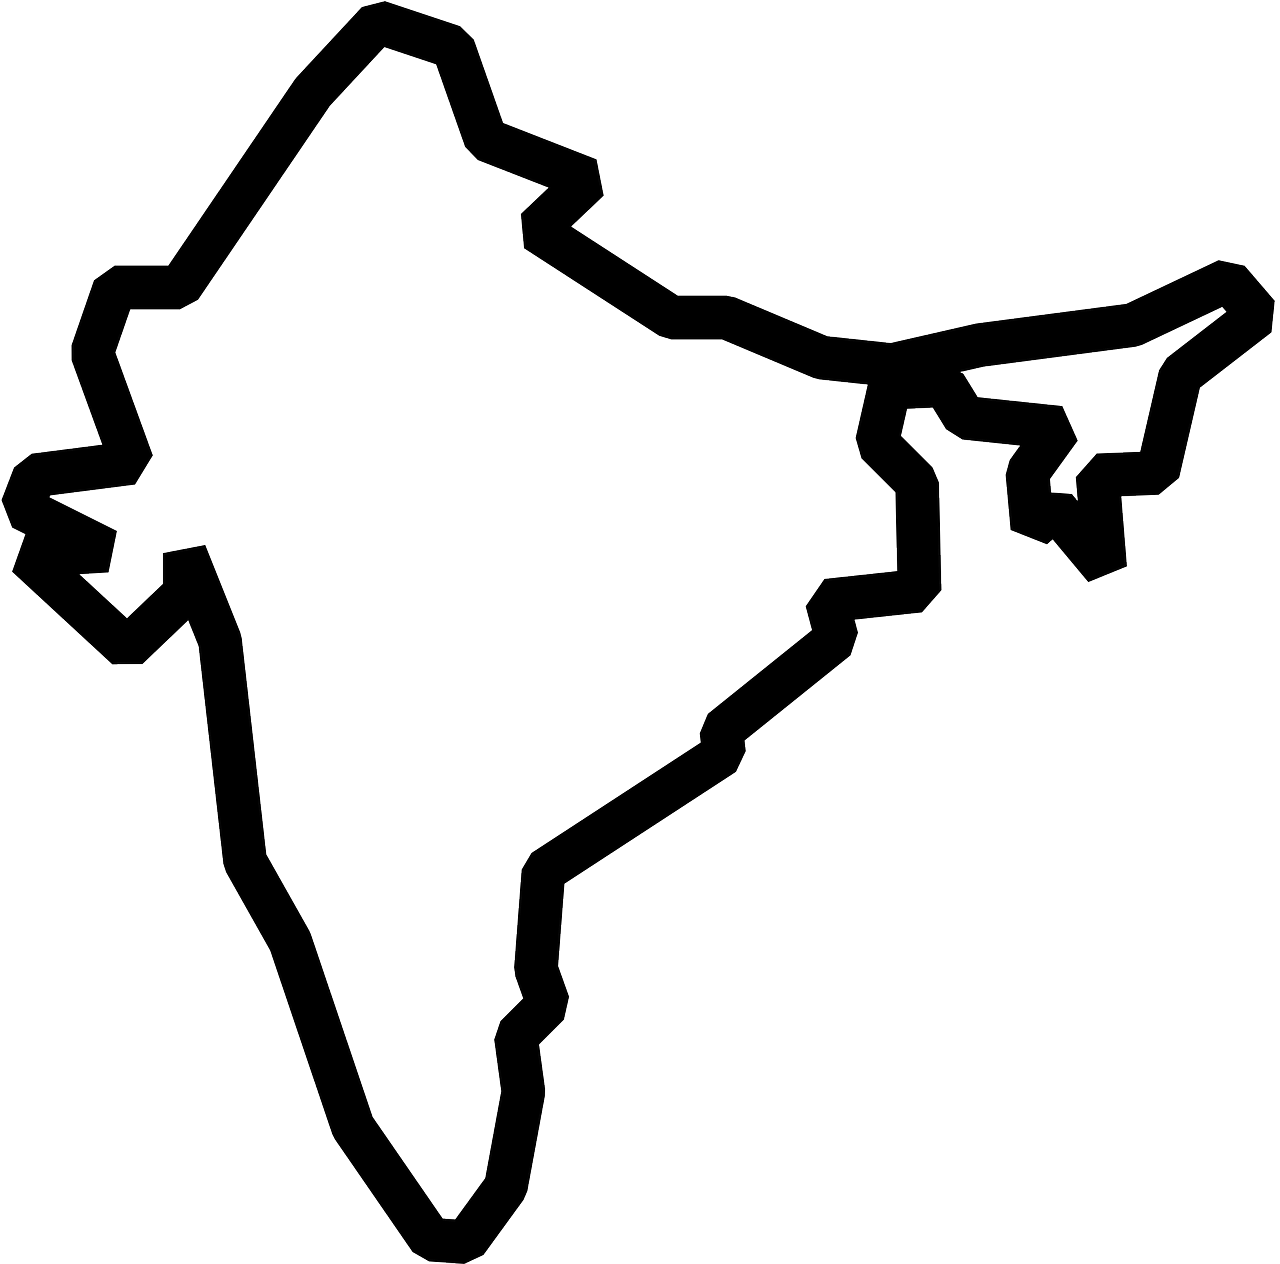
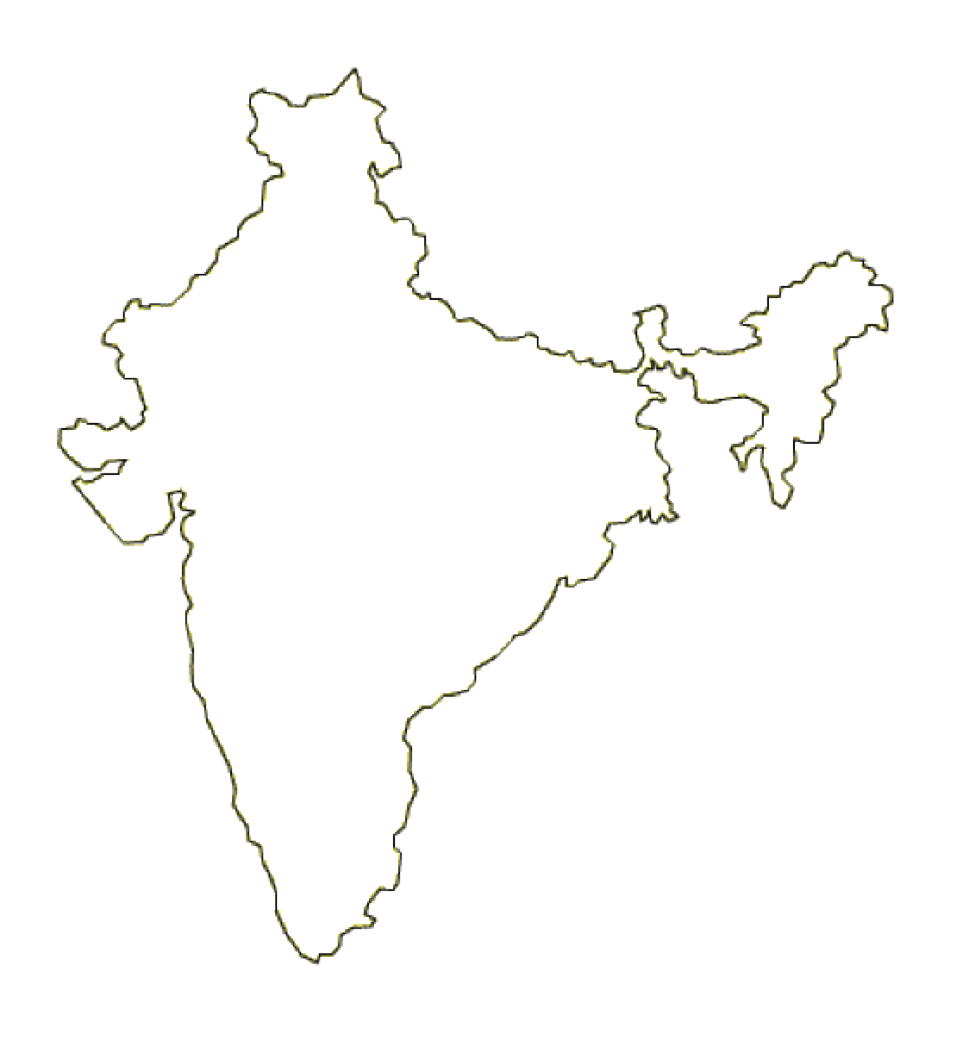
make world and about

diff --git a/worldwork.html b/worldwork.html
@@ -6,7 +6,7 @@
     <meta name="viewport" content="width=device-width, initial-scale=1">
     <link rel="icon" href="img/i.png" type="image/x-icon">
     <link href="http://fonts.googleapis.com/css?family=Source+Sans+Pro:400,700|Montserrat" rel="stylesheet" type="text/css">
-    <link rel="stylesheet" type="text/css" href="css/mainpage.css">
+    <link rel="stylesheet" type="text/css" href="css/worldwork.css">
     <link rel="stylesheet" type="text/css" href="css/topnav.css">
   </head>
   <div class="topnav">
@@ -17,14 +17,18 @@
   <a href="fun_stuff.html">Fun Stuff</a>
 </div>
   <body>
-<h1>Where in the world...</h1>
-<h2>have I lived/worked/studied</h2>
+
+
+<h1 class="name">Where in the world...</h1>
+<img src="img/blank_map.png" width=100%/>
+
+<h1>have I lived/worked/studied</h1>
 
 <h2>North America</h2>
 <h3>United States</h3>
 <h4>This is home!</h4>
 
-<h2>Europe</h2>
+<h2> Europe</h2>
 <img src="img/germany.png" width="100"/>
 <h3>Germany</h3>
 <p>Where: Berlin, Germany</p>
@@ -41,26 +45,29 @@
 <p>When: August 2015 - December 2015</p>
 <p>Studying: Exchange student at the <a href="https://www.upo.es/portal/impe/web/portada?lang=en" target="_blank">Universidad Pablo de Olavide</a>.</p>
 
+<img src="img/suisse.png" width="200"/>
 <h3>Switzerland</h3>
 <p>Where: Geneva, Switzerland</p>
 <p>When: August 2013</p>
 
 <h2>Asia</h2>
-<img src="img/bharot.png" width="180"/>
+<img src="img/india.png" width="200"/>
 <h3>India</h3>
 <p>Where: Kolkata, India</p>
 <p>When: June 2017 - August 2017</p>
 <p>Studying: U.S. Department of State's <a href="https://www.clscholarship.org/ " target="_blank">Critical Lanugage Scholarship</a> at the <a href="https://www.indiastudies.org/" target="_blank">American Institute of Indian Studies</a>.</p>
 
+<img src="img/singapore.png" width="200"/>
 <h3>Singapore</h3>
 <p>Where: Kolkata, India</p>
 <p>When: June 2017 - August 2017</p>
 <p>Working/Studying: Researcher and exchange student at the <a href="http://nus.edu.sg/" target="_blank">National University of Singapore</a> and mental health specialist at the <a href="https://www.home.org.sg/" target="_blank">Humanitarian Organization for Migration Economics</a>.</p>
 
+<img src="img/japan.png" width="200"/>
 <h3>Japan</h3>
 <p>Where: Tokyo, Sendai, and Northern Japan</p>
 <p>When: March 2015</p>
-<p>Working: Researching after effects of the Great East Japan Earthquake and attending the<a href="https://www.un.org/sustainabledevelopment/un-world-conference-on-disaster-risk-reduction/page/6/" target="_blank">UN World Conference on Disaster Risk Reduction</a>.</p>
+<p>Working: Researching after effects of the Great East Japan Earthquake and attending the <a href="https://www.un.org/sustainabledevelopment/un-world-conference-on-disaster-risk-reduction/page/6/" target="_blank">UN World Conference on Disaster Risk Reduction</a>.</p>
 
 <h2>Africa</h2>
 

diff --git a/index.html b/index.html
@@ -8,15 +8,15 @@
     
     <link rel="icon" href="img/i.png" type="image/x-icon">
     <link href="http://fonts.googleapis.com/css?family=Source+Sans+Pro:400,700|Montserrat" rel="stylesheet" type="text/css">
-    <link href='http://fonts.googleapis.com/css?family=Source+Sans+Pro:300,400,700' rel='stylesheet' type='text/css'>
-
-    <link rel="stylesheet" type="text/css" href="css/clip.css"> <!-- clip effect -->
-    <script src="js/modernizr.js"></script> <!-- Modernizr -->
 
     <link rel="stylesheet" type="text/css" href="css/mainpage.css">
     <link rel="stylesheet" type="text/css" href="css/topnav.css">
-  </head>
 
+  <!--link rel="stylesheet" href="css/reset.css"--> <!-- CSS reset -->
+  <link rel="stylesheet" href="css/clip.css"> <!-- Resource style -->
+  <script src="js/modernizr.js"></script> <!-- Modernizr -->
+
+  </head>
   <div class="topnav">
   <a href="worldwork.html">World</a>
   <a href="research.html">Research</a>
@@ -31,23 +31,18 @@
       <p></p>
       <img src="img/laughing.jpg" width="320" border="6" />
       <section class="cd-intro">
-   <p class="cd-headline clip is-full-width">
-      <span>I'm a public policy</span>
-      <span class="cd-words-wrapper">
-         <b class="is-visible">researcher</b>
-         <b>project manager</b>
-         <b>student</b>
-      </span>
-      <span>hoping to bridge the technology-policy gap.</span>
-   </p>
+       <h1 class="cd-headline letters type">
+          <span>I'm a public policy</span>
+          <span class="cd-words-wrapper">
+             <b class="is-visible">researcher</b>
+             <b>project manager</b>
+             <b>student</b>
+          </span>
+          <span>hoping to bridge the technology-policy gap.</span>
+       </h1>
       </section> <!-- cd-intro -->
-
-
     </div> <!-- /.main-container-->
-<div>
-  
-  
-</div>
+
     <footer>
       <ul class="meta inline-list">
         <li><a href="https://www.linkedin.com/in/irene-solaiman/" target="_blank">linkedin</a></li>
@@ -55,8 +50,8 @@
         <li><a href="http://www.github.com/irenesolaiman" target="_blank">github</a></li>
       </ul>
     </footer>
-    <script src="js/clip.js"></script> <!-- clip effect -->
-    <script src="js/main.js"></script> <!-- Resource jQuery -->
+<script src="js/jquery-2.1.1.js"></script>
+<script src="js/clip.js"></script> <!-- Resource jQuery -->
 </body>
 
 </html>

diff --git a/css/worldwork.css b/css/worldwork.css
@@ -1,10 +1,13 @@
 
-body {text-align: center; font-family: Montserrat, Helvetica Neue, sans-serif; margin: 0 auto; line-height: 2em; padding: 10px; box-sizing: border-box; color: #333; overflow: auto;
+body {text-align: left; font-family: Montserrat, Helvetica Neue, sans-serif; margin: 0 auto; line-height: 2em; padding: 10px; box-sizing: border-box; color: #333; overflow: auto;
   background: white;
   background-image: linear-gradient(rgba(240, 240, 240, .7) .1em, transparent .1em), linear-gradient(90deg, rgba(240, 240, 240, .7) .1em, transparent .1em);
   background-size: 3em 3em;
 }
 
+h2 {border:solid;
+border-color: black; padding: 5px 0 0 0; display:inline; text-transform: uppercase;
+}
 body, html {height: 100%;position: relative;}
 
 a {text-decoration: none; color: #333; border-bottom: 3px solid #004d80;}
@@ -32,7 +35,9 @@ body {
 }
 hr {border-bottom: 3px solid #004d80;}
 
-.name {font-family: Montserrat; font-size: 45px; text-transform: uppercase; font-weight: 900; padding: 12px; border: 4px solid black; color: black; display: inline-block; position: absolute; margin-bottom: 60px; top: 60px; left: 90px;}
+.name {font-family: Montserrat; font-size: 45px; text-transform: uppercase; font-weight: 900; padding: 12px; border: 4px solid black; color: black; display: inline-block; position: absolute; margin-bottom: 60px; top: 60px; left: 90px; background: white;
+  background-image: linear-gradient(rgba(240, 240, 240, .7) .1em, transparent .1em), linear-gradient(90deg, rgba(240, 240, 240, .7) .1em, transparent .1em);
+  background-size: 3em 3em;}
 
 .meta {text-transform: uppercase; font-family: Arial, Courier New, Source Sans Pro, sans-serif; font-size: 10px; letter-spacing: .15em;}
 .meta a:hover {color: #333;}

diff --git a/about.html b/about.html
@@ -8,7 +8,7 @@
     <link rel="icon" href="img/i.png" type="image/x-icon">
     <link href="http://fonts.googleapis.com/css?family=Source+Sans+Pro:400,700|Montserrat" rel="stylesheet" type="text/css">
     <script src="js/clip.js"></script> <!-- clip effect -->
-    <link rel="stylesheet" type="text/css" href="css/mainpage.css">
+    <link rel="stylesheet" type="text/css" href="css/about.css">
     <link rel="stylesheet" type="text/css" href="css/topnav.css">
   </head>
   <div class="topnav">
@@ -20,13 +20,18 @@
 </div>
   <body>
     <div class=”main-container”>
-      <h1>Coming soon!</h1>
+      <h1 class="name">About me</h1>
       <p></p>
-      
+      <img src="img/conference.jpg" width="400" border="6" />
 
-    
+      <h2></h2>
+      <h3>Harvard University, John F. Kennedy School of Government</h3>
+      <h4><a href="https://www.hks.harvard.edu/educational-programs/masters-programs/master-public-policy" target="_blank">Master in Public Policy</a>, 2019</h4>
 
-
+      <h3>University of Maryland, College Park</h3>
+      <h4><a href="https://www.ivsp.umd.edu/isolaiman-profile.html" target="_blank">B.A. International Relations</a>, 2017</h4>
+      <p><a href="https://www.bannekerkey.umd.edu/" target="_blank">Banneker/Key Scholar</a>  (Full four year merit scholarship)</p>
+      <p>Self-created degree curriculum with the <a href="https://www.ivsp.umd.edu/" target="_blank">Individual Studies Program</a></p>
     </div> <!-- /.main-container-->
 
 

diff --git a/css/about.css b/css/about.css
@@ -1,5 +1,5 @@
 
-body {text-align: center; font-family: Montserrat, Helvetica Neue, sans-serif; margin: 0 auto; line-height: 2em; padding: 10px; box-sizing: border-box; color: #333; overflow: auto;
+body {text-align: left; font-family: Montserrat, Helvetica Neue, sans-serif; margin: 0 auto; line-height: 2em; padding: 10px; box-sizing: border-box; color: #333; overflow: auto;
   background: white;
   background-image: linear-gradient(rgba(240, 240, 240, .7) .1em, transparent .1em), linear-gradient(90deg, rgba(240, 240, 240, .7) .1em, transparent .1em);
   background-size: 3em 3em;

diff --git a/fun_stuff.html b/fun_stuff.html
@@ -22,7 +22,8 @@
     <div class=”main-container”>
 
       <p></p>
-      <h1>Irene sings and makes music!</h1>
+      <h1 class="name">I make music!</h1>
+     
 <h2>Sample Tracks</h2>
 <div></div>
 <h3>"Can't Help Falling in Love"</h3>

diff --git a/css/topnav.css b/css/topnav.css
@@ -9,6 +9,7 @@
          font-size: 14px;
          letter-spacing: .1em;
          text-transform: uppercase;
+         text-align: center
          
      }
 /* Style the links inside the navigation bar */

diff --git a/research.html b/research.html
@@ -18,7 +18,7 @@
   <a href="fun_stuff.html">Fun Stuff</a>
 </div>
   <body>
-<h1>Coming soon!</h1>
+<h1 class="name">My research</h1>
 
 
 
